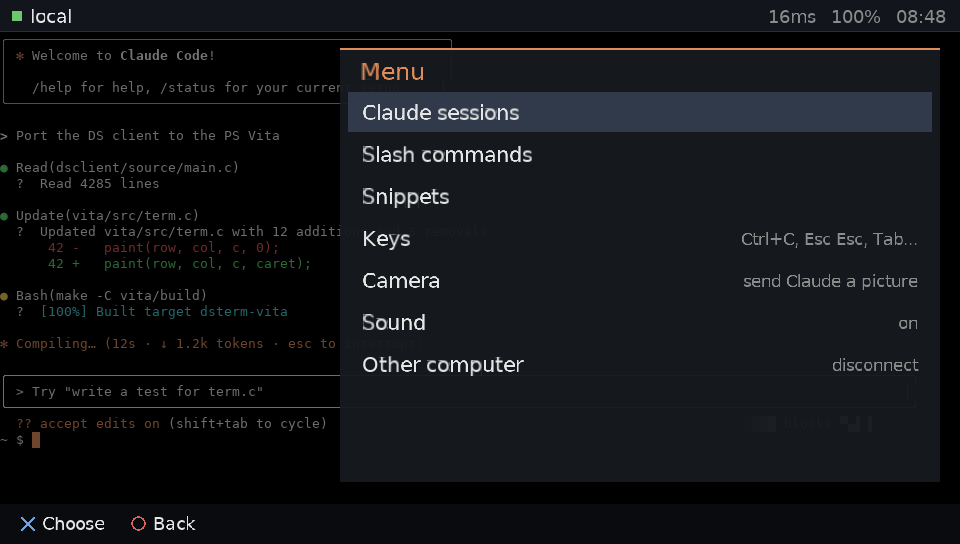
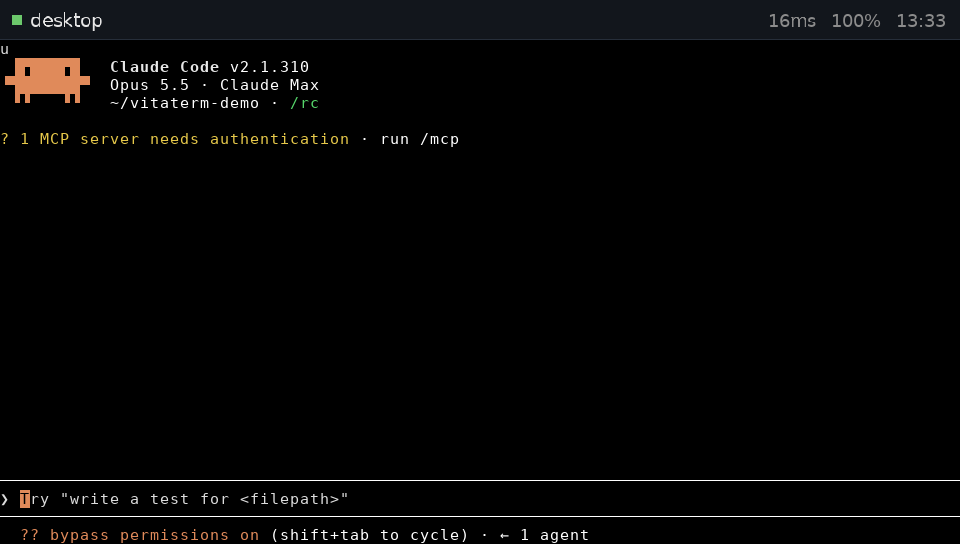
README: screenshots of a real Claude Code session at 96x28, status from real hardware
Claude-Session: https://claude.ai/code/session_01P6znVFRqGqvB9f7njwZ46r

diff --git a/README.md b/README.md
@@ -17,7 +17,7 @@ screen and sends keys, and everything between the two is encrypted.
 <img src="docs/assets/vita/camera.png" width="49%" alt="The camera: viewfinder, take, flip, close">
 </p>
 
-<sub>Screenshots from the Vita3K emulator, with a scripted demo screen in place of a live Claude session.</sub>
+<sub>Screenshots from the Vita3K emulator, connected to a real `vitaterm serve` running Claude Code.</sub>
 
 > [!NOTE]
 > This is a fork of [logancarrillo/ds-claude-terminal](https://github.com/logancarrillo/ds-claude-terminal),
@@ -128,10 +128,9 @@ in `ux0:data/vitaterm/snippets.txt`, or the computer sends its own.
 
 ## Status
 
-Early. Tested in the Vita3K emulator against a real server: connecting with a
-saved key, the encrypted link, the terminal, the menu, the keyboard, the
-camera and a picture saved on the computer. Pairing by code, sound and the
-real hardware are being tested now.
+Early, but in daily use on a PS Vita 1000: pairing by code, the encrypted
+link, the terminal, typing and approvals work on real hardware. The camera
+has been tested end to end in the Vita3K emulator.
 
 ## Building
 
